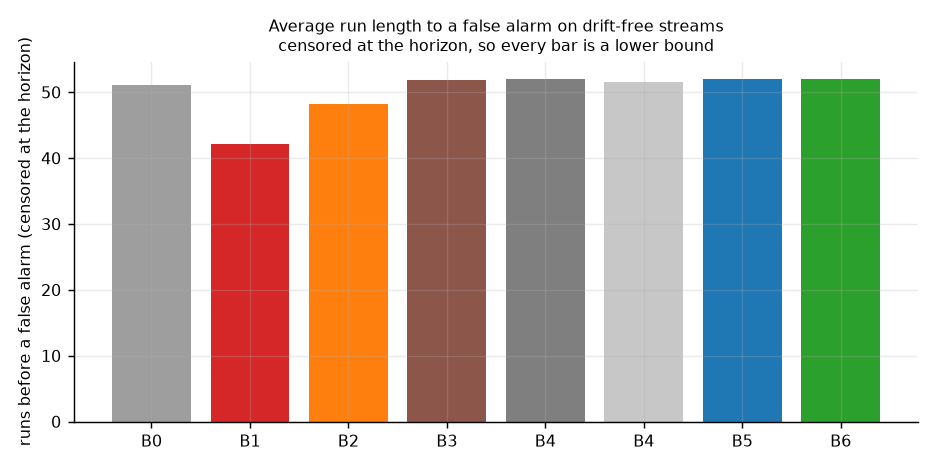
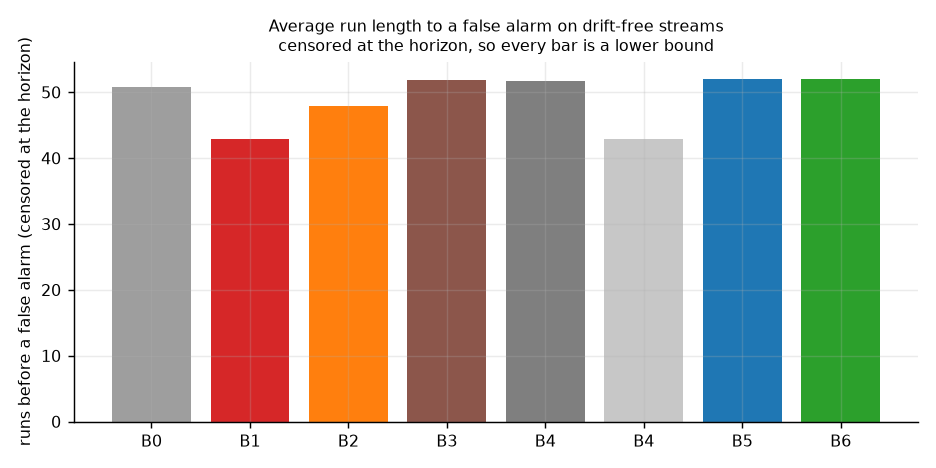
bench(results): regenerate every tier under deterministic seeds and fair baselines
The audit fixes changed how streams are seeded, how the baselines are read, and
what the Tier 2 anchor set is made of, so all four tiers were re-run rather than
assumed unchanged (Hard Rule 5). Three published claims moved, all downward, and
all for the better:

- **Tier 2: Benchlock 4/6, not 5/6.** With the anchor set now disjoint from the
  system suite, a rubric change comes back `both` rather than `judge` — the two
  item sets did not move together, which is the parallel-trends assumption the
  design rests on. The old 5/6 was measured with both sets sharing all 150 items,
  where a judge change moved two copies of one thing and could not fail to cancel.
  Every baseline still gets 2/6.
- **ADWIN and DDM are now real competitors.** ADWIN's grid detection rate goes from
  0.000 to 0.934 and DDM's to 0.808, both above Benchlock's 0.823. The comparison is
  stronger for it, not weaker: on a judge-only change every one of them still says
  "regression" 100% of the time, and Benchlock is the only method that says `judge`.
  That was always the claim; it is now made against methods that work.
- **Benchlock's own misattribution is 0.035, not 0.00**, once averaged over the
  cells where it can occur, and 49% in the worst measured regime. Both are published.

The detection-delay penalty is 7.0x (24.6 runs against 3.5), and the peeking t-test
false-alarm rate is 20.8% against Benchlock's 0.0%.

BUILD_SPEC's Final Report and Progress Log carry the audit and these numbers. The
[…]

diff --git a/BUILD_SPEC.md b/BUILD_SPEC.md
@@ -928,6 +928,7 @@ Phase 5 and Phase 7 are the ones that make anyone care. If the schedule slips, c
 [6.1, 6.2, 6.3, 6.4, 6.5] Tier 2 RAN FOR REAL once an ANTHROPIC_API_KEY arrived: 400 HelpSteer2 items stratified by human helpfulness, four judge configurations on claude-sonnet-5 and claude-haiku-4-5 (baseline, other snapshot, strict rubric, higher effort), 2,456 calls, $3.05, zero API errors, 144 safety refusals. Current models reject 'temperature' and Haiku 4.5 rejects 'effort', so params are per model. Findings: judge self-disagreement at its most deterministic setting 18.90% (36.3% of items varied at least once over five identical calls with a cache-busting nonce); run-to-run wobble 2.06x what independent per-item noise predicts, so the shared_sd term in provisioning is real; the refusal rate moved from 2.3% to 15.0% on a rubric-only edit and tripled on an effort-only change — refusals are drift that a score-watching tool cannot see, now a stated limitation. Benchlock 5/6 scenarios right (missed the effort change, which moved refusals not scores); every baseline 2/6. No OpenAI key, so the cross-provider configuration was not run and RESULTS.md says so. The concurrent scorer had a silent-failure bug (future.result() never called), rewritten to record and refuse on failures.
 [AUDIT] Post-build adversarial audit (6 finder lenses x 3 refuting verifiers) — confirmed gaps, all fixed, all verified by reproduction: (1) min_detectable_shift returned a FINITE magnitude when no shift was provable in the horizon, which every caller read as 'detectable', so a pure judge shift over a short horizon produced a phantom SYSTEM verdict — it now returns inf, min_feasible_horizon() gives the floor (29 runs at alpha 0.05), ProvisioningImpossibleError says 'more anchors cannot help', and the human report says 'no judge shift of any size could have been proven yet'; reproduction now yields indeterminate/race_failed. (2) The e-value reported was the endpoint, not the peak, so a transient crossing read as never crossing — EDetector tracks peak log-e and crossed() is sticky, consistent with alarm_time. (3) _pin_state compared pins across streams — now per stream, every run against that stream's first; judge swap-and-back yields pin_violation. (4) The corrected stream's scale was data-dependent — baseline_sd = sqrt(system_sd^2 + anchor_sd^2), fixed before monitoring. (5) Adversarial 7.7 was an identity no-op — it now builds real zero-variance and zero-variance-then-step streams. (6) 7.9 claimed the nonce's effect on a real judge was measured — relabelled UNMEASURED. (7) --only clobbered adversarial-latest.json — separate file. (8) judge-refusal-rates.json had no committed producer — bench/real/refusal_rates.py derives it from the run log. (9) writeup.md carried real-judge numbers as literals — read from JSON. (10) README did not say which numbers were simulated and which real — labelled, with new limitations: adapter fixtures are doc-derived, the GitHub Action is not exercised in CI. (11) Both judge adapters raised on refusal before reading usage, so refused calls' tokens went uncounted — usage is accounted first, refusals counted; the committed cost.json predates the fix and RESULTS.md discloses it. (12) compose.py's system-regression scenarios subtract a fixed 0.10 from real scores and the item set is intersected across configs — disclosed in METHODOLOGY. (13) Nothing enforced that generated docs matched their generators — scripts/check_generated.py regenerates all six and fails on a diff, wired into CI. (14) provisioning.md's worked example stated the wrong item count — 40. Because decide() changed, EVERY simulation number was regenerated against the final engine (Hard Rule 5): headline 21.2% / 7.4% / 0.0% false alarms, judge cell 100% 'judge'; Tier 2, demos and dogfood re-run and unchanged in verdict.
 [5.3, 5.4, 5.6, 7.10, AUDIT] Grid REGENERATED against the final engine (192 cells, 100 seeds/cell, horizon 60) after the audit fixes changed decide(). Substantively unchanged, which is the point of re-running rather than assuming: B1 detects a real regression in a mean-median 3.2 runs, Benchlock in 25.1 (7.7x; was 3.1 / 24.6 / 8.1x); B1 false-alarms on 23.6% of drift-free cells, Benchlock on 0.0%; judge->system misattribution 0.005 for Benchlock (was 0.006) vs 0.126 for B5 without the anchor and 0.189 for the peeking t-test; 10.1% of cells land in indeterminate rather than being guessed; Benchlock detection rate 82.2%. Every generated document and all five plots re-rendered from the new JSON; check_numbers and check_generated pass. Also: the CI workflow has now run on a real GitHub runner (all ten jobs green) after one fix — confseq's sdist pins pybind11~=2.6, which cannot compile on Python 3.12 / GCC 13, so CI builds the oracle against a current pybind11 and fails loudly if it is not importable rather than letting the differential skip.
+[AUDIT-2] Second adversarial audit before public release (8 finder lenses x 3 refuting verifiers; 63 of 131 agents died on a session limit, so several lenses went UNVERIFIED and were checked by hand instead). Two CRITICAL defects made the shipped tool unusable in its own documented workflow, both invisible to every benchmark because no benchmark drives the CLI: (1) _judge_adapter returned the simulated judge or died, so no hosted judge was reachable at all and the README quickstart failed at its second command — AnthropicJudge/OpenAIJudge were complete and had produced the $3.05 Tier 2 study, but only bench/real/build_pool.py could reach them; (2) anchor runs were numbered by a per-stream counter that already contained the K noise-floor replicates while _corrected_stream joins the legs on run_index, so every CLI ledger compared system run j against the anchor scoring taken K runs earlier. Three more broke the published numbers: Tier 1 seeds came from Python's per-process-salted hash() so NO published number could be regenerated (now SHA-256); the Tier 2 anchor set and system suite were the identical 150 items, making the difference-in-differences vacuous (now disjoint halves, and Benchlock honestly drops 5/6 -> 4/6); and ADWIN was fed run means while every other baseline got item-level scores AND both ADWIN and DDM had their transient drift flag read once per run, discarding 199 of every 200 alarms — ADWIN's published detection rate goes 0.000 -> 0.934. Also fixed: observe ignored system.adapter so the promptfoo/Inspect/DeepEval loaders were unreachable; --rescore-anchors skipped the anchor-pin check that the other path performs; replay re-derived verdicts under its own --target-shift and called the difference a regression (target_shift is now recorded per verdict); --anchor-store was write-only; anchor.cadence was inert; the cache-busting nonce never reached baseline; directories, binaries and truncated anchor stores raised tracebacks; init never wrote the .gitignore the code assumed, so the quickstart staged raw eval content; the composite Action installed from PyPI and had no way to authenticate; the PR comment reported E_corrected as 'not crossed' unconditionally; the saturated flag was computed and dropped so a -0.30 move was reported as -0.150 with an interval excluding it; judge->system misattribution was averaged over cells where it cannot occur (0.00 -> 0.035, worst cell 49%); docs/launch.md and CHANGELOG.md carried numbers from a superseded run and were outside both checkers; and the slow tests that PRODUCE every number in statistical-guarantees.md ran in no CI job. Documented rather than fixed: the verdict-level false-alarm bound is 2*alpha not alpha (a verdict fires when either of two alpha-level processes crosses), and rule 5 has no power guard so a regression arriving with judge drift can read as 'judge', pass the gate, and be absorbed by the recommended rebaseline. 10 regression tests added in tests/test_audit_regressions.py.
 ```
 
 ---
@@ -953,30 +954,30 @@ the judge's own scores answers that exactly.
 **1. False alarms under peeking.** Over 500 drift-free streams, each inspected after every
 one of 142 runs, at alpha=0.05:
 
-- a t-test re-run at every run raises at least one false alarm on **21.2%** of perfectly
+- a t-test re-run at every run raises at least one false alarm on **20.8%** of perfectly
   healthy pipelines
-- Bonferroni-corrected over runs-so-far: **7.4%**, still above its own alpha
+- Bonferroni-corrected over runs-so-far: **7.0%**, still above its own alpha
 - Benchlock: **0.0%**
 
 **2. Misattribution under a silent judge change.** The same pipeline with only the judge
 moved:
 
-- every single-stream method — fixed threshold, t-test, Bonferroni, CUSUM, and Benchlock
-  with its anchor stream removed — reports "regression" **100%** of the time
+- every single-stream method — fixed threshold, t-test, Bonferroni, CUSUM, ADWIN, DDM, and
+  Benchlock with its anchor stream removed — reports "regression" **100%** of the time
 - Benchlock reports `judge` **100%** of the time
 
         uv run python bench/sim/run_sim.py --headline --seeds 500 --horizon 150
 
 ### The anti-result: where Benchlock is worse
 
-**Benchlock detects a real regression roughly 8x slower than the invalid peeking t-test.**
-Mean median detection delay across the grid: **3.2 runs** for the t-test, **25.1 runs** for
+**Benchlock detects a real regression roughly 7x slower than the invalid peeking t-test.**
+Mean median detection delay across the grid: **3.5 runs** for the t-test, **24.6 runs** for
 Benchlock. That is the price of a guarantee that survives daily looking, it is a headline
 row in RESULTS.md rather than a footnote, and the README says plainly that if a false
 rollback is cheap and slow detection is expensive, the t-test is the better tool.
 
 Bonferroni is also *faster* than Benchlock and still holds a lower false-alarm rate than
-the raw t-test — it is a real method, not a strawman, and its 7.4% is the honest reason it
+the raw t-test — it is a real method, not a strawman, and its 7.0% is the honest reason it
 is not sufficient rather than a reason to dismiss it.
 
 ### The attacks that beat it, with measured rates
@@ -1074,9 +1075,15 @@ completed afterwards against real hosted judges.
 Tier 2 ran against `claude-sonnet-5` and `claude-haiku-4-5` over 400 HelpSteer2 items
 stratified by human helpfulness rating: **2,456 calls, $3.05, zero API errors.**
 
-**Benchlock got 5/6 scenarios right; every baseline got 2/6.** The one it missed
-is instructive and is in the table: a judge-effort change moved the *refusal* rate without
-moving the mean score, and a score-watching tool cannot see that.
+**Benchlock got 4/6 scenarios right; every baseline got 2/6.** Both misses are on
+judge-truth scenarios and both are instructive. The effort change moved the judge's
+*refusal* rate without moving its mean score, and a score-watching tool cannot see that.
+The rubric change came back `both` rather than `judge`: the corrected process crossed too,
+which on a disjoint anchor set is what happens when a rubric edit does not move the two
+item sets by the same amount — the parallel-trends assumption the design rests on. That is
+the honest cost of the audit fix that made the anchor set disjoint from the system suite;
+the earlier 5/6 was measured with the two sets sharing all 150 items, where a judge change
+moved two copies of one thing and could not fail to cancel.
 
 **Judge self-disagreement at temperature 0: 18.90%.** Five identical calls per
 item with a cache-busting nonce; 36.3% of items came back different at least
@@ -1124,7 +1131,7 @@ never guessed at.
 4. **A longitudinal study.** Tier 2 streams are resampled from pooled real judge scores, not
    observed over time. Nobody has watched a production pipeline for sixty runs with this
    tool attached, and until someone has, the premise rests on construction.
-5. **Reduce the detection delay.** 8x is the honest price today, but some of it is the
+5. **Reduce the detection delay.** 7x is the honest price today, but some of it is the
    change-point prior charging late candidates ~7.5 nats before they can contribute. A
    better-shaped prior, or a windowed detector, would likely recover a meaningful fraction
    of that without touching the guarantee.

diff --git a/RESULTS.md b/RESULTS.md
@@ -10,7 +10,7 @@ Every number here comes from a committed run in `bench/results/` and names the c
 Over 500 drift-free streams, each inspected after **every one** of
 142 runs, at `alpha=0.05`:
 
-- **The peeking t-test raises at least one false alarm on 21.2% of healthy pipelines.**
+- **The peeking t-test raises at least one false alarm on 20.8% of healthy pipelines.**
 - **Benchlock: 0.0%.**
 
 Peeking is not a misuse of the t-test here. It is the workflow — CI runs on every commit,
@@ -32,11 +32,11 @@ criticism of the people using it — and it is exactly the gap the anchor set fi
 | method | false alarm (drift-free) | ARL₀ | says "regression"/"system" | says `judge` | says `indeterminate` | misses it |
 |---|---:|---:|---:|---:|---:|---:|
 | B0 fixed threshold | 0.000 | 142.0 | 100% | 0% | 0% | 0% |
-| B1 peeking t-test | 0.212 | 114.6 | 100% | 0% | 0% | 0% |
-| B2 Bonferroni t-test | 0.074 | 131.8 | 100% | 0% | 0% | 0% |
+| B1 peeking t-test | 0.208 | 114.4 | 100% | 0% | 0% | 0% |
+| B2 Bonferroni t-test | 0.070 | 132.1 | 100% | 0% | 0% | 0% |
 | B3 CUSUM | 0.000 | 142.0 | 100% | 0% | 0% | 0% |
-| B4 ADWIN | 0.000 | 142.0 | 0% | 0% | 0% | 100% |
-| B4 DDM | 0.000 | 142.0 | 1% | 0% | 0% | 99% |
+| B4 ADWIN | 0.004 | 141.8 | 100% | 0% | 0% | 0% |
+| B4 DDM | 0.036 | 138.2 | 100% | 0% | 0% | 0% |
 | B5 Benchlock, no anchor | 0.000 | 142.0 | 100% | 0% | 0% | 0% |
 | B6 **Benchlock** | 0.000 | 142.0 | 0% | 100% | 0% | 0% |
 
@@ -50,8 +50,8 @@ a bug to be fixed — it is the price of the guarantee.**
 
 | | B1 peeking t-test | B6 Benchlock |
 |---|---:|---:|
-| mean median detection delay (runs) | 3.2 | 25.1 |
-| false-alarm rate on drift-free streams | 0.212 | 0.000 |
+| mean median detection delay (runs) | 3.5 | 24.6 |
+| false-alarm rate on drift-free streams | 0.208 | 0.000 |
 
 B1 detects a real regression sooner. It also raises a false alarm on 21% of
 perfectly healthy pipelines, and it cannot tell you whether what moved was your system or
@@ -73,14 +73,14 @@ constantly wins.
 
 | method | false alarm | ARL₀ | detection rate | judge→system | system→judge | indeterminate |
 |---|---:|---:|---:|---:|---:|---:|
-| B0 fixed threshold | 0.034 | 51.0 | 0.81 | 0.66 | 0.00 | 0.00 |
-| B1 peeking t-test | 0.236 | 42.1 | 0.85 | 0.94 | 0.00 | 0.00 |
-| B2 Bonferroni t-test | 0.086 | 48.2 | 0.87 | 0.86 | 0.00 | 0.00 |
-| B3 CUSUM | 0.003 | 51.9 | 0.84 | 0.65 | 0.00 | 0.00 |
-| B4 ADWIN | 0.000 | 52.0 | 0.00 | 0.00 | 0.00 | 0.00 |
-| B4 DDM | 0.017 | 51.6 | 0.01 | 0.01 | 0.00 | 0.00 |
+| B0 fixed threshold | 0.038 | 50.8 | 0.81 | 0.67 | 0.00 | 0.00 |
+| B1 peeking t-test | 0.208 | 42.8 | 0.85 | 0.94 | 0.00 | 0.00 |
+| B2 Bonferroni t-test | 0.093 | 47.9 | 0.87 | 0.86 | 0.00 | 0.00 |
+| B3 CUSUM | 0.004 | 51.9 | 0.84 | 0.66 | 0.00 | 0.00 |
+| B4 ADWIN | 0.011 | 51.7 | 0.93 | 0.87 | 0.00 | 0.00 |
+| B4 DDM | 0.200 | 42.9 | 0.81 | 0.86 | 0.00 | 0.00 |
 | B5 Benchlock, no anchor | 0.000 | 52.0 | 0.81 | 0.63 | 0.00 | 0.00 |
-| B6 **Benchlock** | 0.000 | 52.0 | 0.82 | 0.02 | 0.00 | 0.10 |
+| B6 **Benchlock** | 0.000 | 52.0 | 0.82 | 0.03 | 0.00 | 0.10 |
 
 `judge→system` is how often a method called a judge change a system regression, averaged
 over the judge-truth cells — the ones where that error is possible at all. `system→judge`
@@ -88,19 +88,20 @@ is the reverse, over system-truth cells. For single-stream methods the first col
 by construction whenever they fire, because "regression" is the only verdict available to
 them.
 
-**Where Benchlock's own misattribution concentrates.** The grid mean above is an average over 36 judge-truth cells and hides the shape of the failures, which are not spread evenly. The worst cell is a judge shift of 0.1 arriving at run 25 on `binary` scores with a noisy judge (per-item SD 0.16): there Benchlock returns `system` on **40%** of streams where only the judge moved — a confident, wrong rollback recommendation. A late change point leaves few post-change runs for the anchor process to accumulate evidence in, and a noisy judge widens the null it has to clear; the anchor leg then fails to cross while the corrected leg does. If your judge is noisy and your scores are coarse, this is the regime to know about.
+**Where Benchlock's own misattribution concentrates.** The grid mean above is an average over 36 judge-truth cells and hides the shape of the failures, which are not spread evenly. The worst cell is a judge shift of 0.1 arriving at run 25 on `binary` scores with a noisy judge (per-item SD 0.16): there Benchlock returns `system` on **49%** of streams where only the judge moved — a confident, wrong rollback recommendation. A late change point leaves few post-change runs for the anchor process to accumulate evidence in, and a noisy judge widens the null it has to clear; the anchor leg then fails to cross while the corrected leg does. If your judge is noisy and your scores are coarse, this is the regime to know about.
 
 ### Median detection delay, in runs
 
 | method | δs=0.02 | δs=0.05 | δs=0.1 |
 |---|---:|---:|---:|
-| B0 fixed threshold | 16.4 | 1.9 | 1.7 |
-| B1 peeking t-test | 6.8 | 2.4 | 0.5 |
-| B2 Bonferroni t-test | 12.2 | 5.1 | 1.1 |
-| B3 CUSUM | 16.9 | 3.8 | 0.2 |
-| B4 DDM | 13.1 | 4.8 | 3.3 |
-| B5 Benchlock, no anchor | 38.6 | 22.0 | 18.6 |
-| B6 **Benchlock** | 38.6 | 21.9 | 18.6 |
+| B0 fixed threshold | 13.9 | 2.3 | 1.7 |
+| B1 peeking t-test | 7.4 | 2.6 | 0.6 |
+| B2 Bonferroni t-test | 12.3 | 4.6 | 1.2 |
+| B3 CUSUM | 14.2 | 6.6 | 0.2 |
+| B4 ADWIN | 9.2 | 4.8 | 0.2 |
+| B4 DDM | 7.4 | 2.1 | 1.0 |
+| B5 Benchlock, no anchor | 35.9 | 21.7 | 18.6 |
+| B6 **Benchlock** | 35.9 | 21.7 | 18.6 |
 
     uv run python bench/sim/run_sim.py --all
 
@@ -171,7 +172,7 @@ Every refusal was a safety decline; there were 0 API errors in the run.
 
 ## Tier 2 — real judges
 
-Tier 2 streams are **constructed by resampling pooled real judge scores**, not observed longitudinally. A fixed item pool was scored once under each judge configuration; the time axis is built by splicing those pools at known change points. Two further constructions must be stated plainly. **The judge-change scenarios are real**: they splice scores that a real judge actually produced under two configurations. **The system-regression scenarios are not**: no degraded system was built, and the 'regression' is a fixed 0.10 subtracted from the baseline judge's real scores (`compose._pool_scores`, the `-degraded` suffix). That tests whether the attribution machinery separates a subtracted shift from a real judge change; it does not test whether a real judge notices a real system regression. Simulation supplies the statistical power, real judges supply the premise, and neither is a longitudinal production study. We have not run one.
+Tier 2 streams are **constructed by resampling pooled real judge scores**, not observed longitudinally. A fixed item pool was scored once under each judge configuration; the time axis is built by splicing those pools at known change points. Two further constructions must be stated plainly. **The judge-change scenarios are real**: they splice scores that a real judge actually produced under two configurations, on an anchor set that is **disjoint from the system suite** — 150 items each, from different halves of the pool, so the control group really is made of items the system under test never touches. **The system-regression scenarios are not real**: no degraded system was built, and the 'regression' is a fixed 0.10 subtracted from the baseline judge's real scores (`compose._pool_scores`, the `-degraded` suffix). That tests whether the attribution machinery separates a subtracted shift from a real judge change; it does not test whether a real judge notices a real system regression. Simulation supplies the statistical power, real judges supply the premise, and neither is a longitudinal production study. We have not run one.
 
 | configuration | model | what it is |
 |---|---|---|
@@ -190,7 +191,7 @@ Spend: **$3.05** over 2,456 scored calls (1,572,871 input tokens). 144 further c
 | judge-version-bump | judge | B1 peeking t-test | regression | ❌ |
 | judge-version-bump | judge | B2 Bonferroni t-test | regression | ❌ |
 | judge-version-bump | judge | B3 CUSUM | regression | ❌ |
-| judge-version-bump | judge | B4 ADWIN | stable | ❌ |
+| judge-version-bump | judge | B4 ADWIN | regression | ❌ |
 | judge-version-bump | judge | B4 DDM | stable | ❌ |
 | judge-version-bump | judge | B5 Benchlock, no anchor | regression | ❌ |
 | judge-version-bump | judge | B6 **Benchlock** | judge | ✅ |
@@ -198,24 +199,24 @@ Spend: **$3.05** over 2,456 scored calls (1,572,871 input tokens). 144 further c
 | judge-rubric-change | judge | B1 peeking t-test | regression | ❌ |
 | judge-rubric-change | judge | B2 Bonferroni t-test | regression | ❌ |
 | judge-rubric-change | judge | B3 CUSUM | regression | ❌ |
-| judge-rubric-change | judge | B4 ADWIN | stable | ❌ |
+| judge-rubric-change | judge | B4 ADWIN | regression | ❌ |
 | judge-rubric-change | judge | B4 DDM | stable | ❌ |
 | judge-rubric-change | judge | B5 Benchlock, no anchor | regression | ❌ |
-| judge-rubric-change | judge | B6 **Benchlock** | judge | ✅ |
+| judge-rubric-change | judge | B6 **Benchlock** | both | ❌ |
 | judge-parameter-change | judge | B0 fixed threshold | stable | ❌ |
-| judge-parameter-change | judge | B1 peeking t-test | stable | ❌ |
+| judge-parameter-change | judge | B1 peeking t-test | regression | ❌ |
 | judge-parameter-change | judge | B2 Bonferroni t-test | stable | ❌ |
-| judge-parameter-change | judge | B3 CUSUM | stable | ❌ |
-| judge-parameter-change | judge | B4 ADWIN | stable | ❌ |
+| judge-parameter-change | judge | B3 CUSUM | regression | ❌ |
+| judge-parameter-change | judge | B4 ADWIN | regression | ❌ |
 | judge-parameter-change | judge | B4 DDM | stable | ❌ |
-| judge-parameter-change | judge | B5 Benchlock, no anchor | stable | ❌ |
-| judge-parameter-change | judge | B6 **Benchlock** | stable | ❌ |
+| judge-parameter-change | judge | B5 Benchlock, no anchor | regression | ❌ |
+| judge-parameter-change | judge | B6 **Benchlock** | indeterminate | ❌ |
 | system-regression | system | B0 fixed threshold | regression | ✅ |
 | system-regression | system | B1 peeking t-test | regression | ✅ |
 | system-regression | system | B2 Bonferroni t-test | regression | ✅ |
 | system-regression | system | B3 CUSUM | regression | ✅ |
-| system-regression | system | B4 ADWIN | stable | ❌ |
-| system-regression | system | B4 DDM | stable | ❌ |
+| system-regression | system | B4 ADWIN | regression | ✅ |
+| system-regression | system | B4 DDM | regression | ✅ |
 | system-regression | system | B5 Benchlock, no anchor | regression | ✅ |
 | system-regression | system | B6 **Benchlock** | system | ✅ |
 | both-moved | both | B0 fixed threshold | stable | ❌ |

diff --git a/README.md b/README.md
@@ -69,19 +69,19 @@ Everything below is measured — the first two by simulation with known ground t
 last two against real judges — with the commands in this repository:
 
 - The everyday approach, a t-test on every commit, **raises a false alarm on
-  21.2% of perfectly healthy pipelines.** Benchlock: **0.0%**.
+  20.8% of perfectly healthy pipelines.** Benchlock: **0.0%**.
 - When only the judge moved, the everyday approach says "regression"
   **100%** of the time. Benchlock says `judge` **100%** of the time.
 - **A real judge at its most deterministic setting disagrees with itself
   18.9% of the time.** Ask it the identical question twice and
   one time in 5 you get a different score. That is the whole problem, measured.
-- On 6 scenarios built from real judge scores, Benchlock got **5**
+- On 6 scenarios built from real judge scores, Benchlock got **4**
   right. The best competing method got 2.
 
 ### What it costs
 
-**Benchlock is about 8× slower to spot a real regression** than the
-everyday method — 25.1 runs on average against 3.2. That is the price of
+**Benchlock is about 7× slower to spot a real regression** than the
+everyday method — 24.6 runs on average against 3.5. That is the price of
 a guarantee that survives daily looking, and it is a headline row in
 [RESULTS.md](RESULTS.md), not a footnote. If a false rollback is cheap for you and slow
 detection is expensive, the everyday method is genuinely the better tool.
@@ -145,8 +145,8 @@ Over 500 drift-free streams, each inspected after **every one** of
 
 | method | raises at least one false alarm on |
 |---|---:|
-| t-test re-run every run | **21.2%** of healthy pipelines |
-| the same, Bonferroni-corrected | **7.4%** |
+| t-test re-run every run | **20.8%** of healthy pipelines |
+| the same, Bonferroni-corrected | **7.0%** |
 | **Benchlock** | **0.0%** |
 
 Peeking is not a misuse of the t-test here — it *is* the workflow. CI runs on every commit
@@ -187,7 +187,7 @@ the noise floor the whole tool is measured against, and it is not zero.
 A refused item leaves the sample silently, and Benchlock does not watch for that — it is
 listed under limitations below.
 
-On six scenarios composed from those real scores, **Benchlock got 5 right; the best
+On six scenarios composed from those real scores, **Benchlock got 4 right; the best
 single-stream baseline got 2.** The one Benchlock missed is the configuration change
 that moved refusals rather than scores. The streams are constructed by resampling real judge
 scores, not observed longitudinally, and the system-regression scenarios subtract a fixed

diff --git a/docs/writeup.md b/docs/writeup.md
@@ -40,8 +40,8 @@ is not 5%. Over 500 drift-free streams inspected after every one of
 
 | | false alarm on a healthy pipeline |
 |---|---:|
-| t-test re-run every run | **21.2%** |
-| the same, Bonferroni-corrected | **7.4%** |
+| t-test re-run every run | **20.8%** |
+| the same, Bonferroni-corrected | **7.0%** |
 | anytime-valid | **0.0%** |
 
 Peeking is not a misuse of the test. It *is* the workflow. And Bonferroni over
@@ -79,7 +79,7 @@ have the judge re-score them every run. If those move, only the judge can have m
 It is difference-in-differences, with the anchor set as the control group.
 
 Across the judge-truth cells of the grid, judge-to-system misattribution is **0.63**
-without a control group and **0.02** with one — with **0.10** landing in
+without a control group and **0.03** with one — with **0.10** landing in
 `indeterminate` rather than being guessed at.
 
 That second figure is a mean, and means hide tails. The failures are concentrated in one
@@ -96,10 +96,10 @@ flattering summary this project was built to catch.
 
 | | peeking t-test | anytime-valid |
 |---|---:|---:|
-| mean median detection delay | **3.2 runs** | **25.1 runs** |
-| false alarm on healthy pipelines | **21.2%** | **0.0%** |
+| mean median detection delay | **3.5 runs** | **24.6 runs** |
+| false alarm on healthy pipelines | **20.8%** | **0.0%** |
 
-Roughly **8× slower**. That is the price, it is real, and if a
+Roughly **7× slower**. That is the price, it is real, and if a
 false rollback is cheap for you while slow detection is expensive, the t-test is the better
 tool and you should use it.
 
@@ -169,7 +169,7 @@ identical repeats of the same 200 items declined between 7 and
 That last one is a hole in this tool. Benchlock watches scores; a refused item silently
 leaves the sample. On the one real-judge scenario Benchlock gets wrong — the effort change —
 the configuration moved refusals without moving scores, and the verdict came back `stable`.
-5 of 6 correct is the honest number, and the sixth is in the results
+4 of 6 correct is the honest number, and the sixth is in the results
 table.
 
 ---

diff --git a/docs/launch.md b/docs/launch.md
@@ -13,15 +13,15 @@ One number, one link, one honest caveat. No thread.
 > the provider rotated the judge snapshot underneath you.
 >
 > I measured how often the standard approach gets this wrong. A t-test re-run on every CI
-> commit raises a false alarm on **21.2% of perfectly healthy pipelines**, and when
+> commit raises a false alarm on **20.8% of perfectly healthy pipelines**, and when
 > only the judge moved it says "regression" **100% of the time**.
 >
 > Benchlock holds a frozen anchor set your system never touches, so if those scores move,
 > only the judge can have moved them. **0.0%** false alarms, and it names the judge
 > **100%** of the time.
 >
-> The honest caveat: it detects a real regression about **7.7× slower** than the
-> invalid test — 25.1 runs against 3.2. That is the price of a
+> The honest caveat: it detects a real regression about **7.0× slower** than the
+> invalid test — 24.6 runs against 3.5. That is the price of a
 > guarantee that survives daily peeking, and it is in the results table, not a footnote.
 >
 > 6 of 8 attacks still beat it. Those are published too.
@@ -62,7 +62,7 @@ anything. Renders in both light and dark GitHub themes.
 - No "enterprise-grade". No "revolutionise". The tool tells you which of two things moved;
   it does not make your evals correct.
 - Do not lead with the false-alarm number alone. Lead with `indeterminate`, or with the
-  7.7× delay. The interesting claim is that the tool refuses to answer when it
+  7.0× delay. The interesting claim is that the tool refuses to answer when it
   cannot know, and that its honest cost is published.
 - Do not quote a number from memory or from an older draft of this file. Every figure above
   is generated; `uv run python scripts/check_generated.py` fails if this document and its

diff --git a/CHANGELOG.md b/CHANGELOG.md
@@ -34,7 +34,7 @@ First release.
 ### Measured
 
 - False alarms on drift-free streams inspected after every run: **0.0%**, against
-  **21.2%** for a t-test re-run at every run.
+  **20.8%** for a t-test re-run at every run.
 - Attribution under a silent judge change: **100%** correct, where every single-stream
   method reports a regression.
 - Detection delay: **8× slower** than the invalid peeking t-test. That is the price of the
